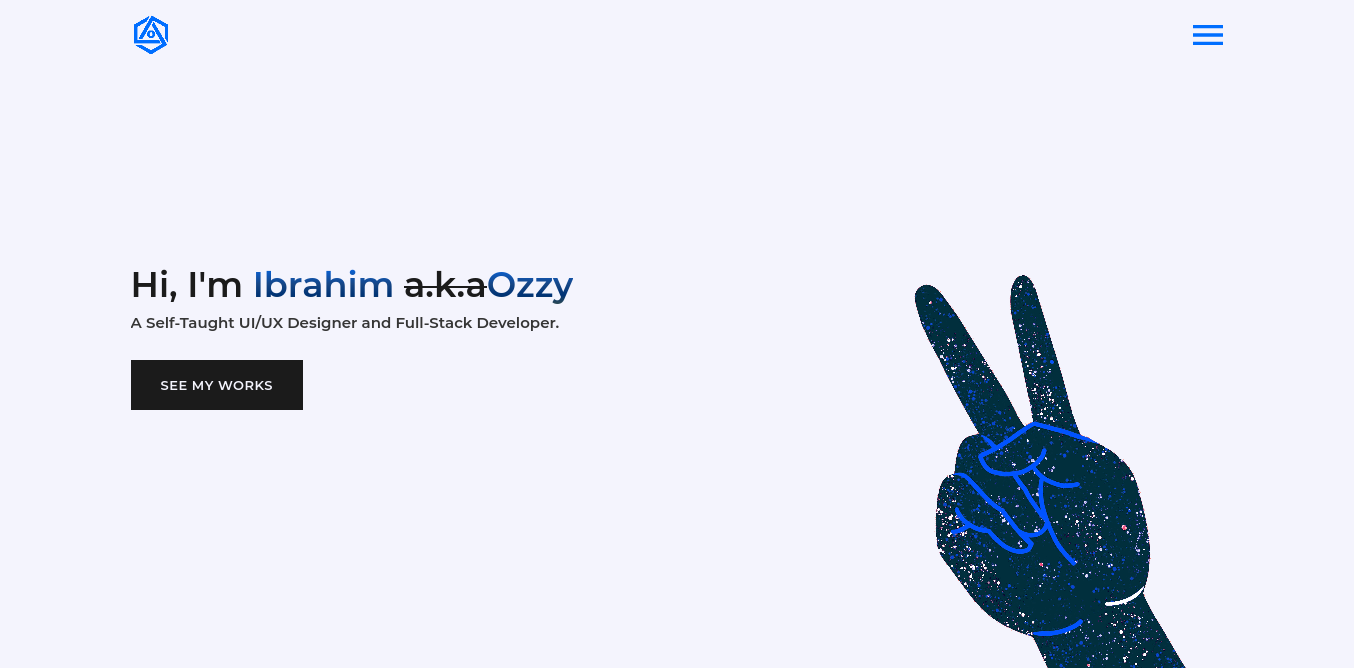
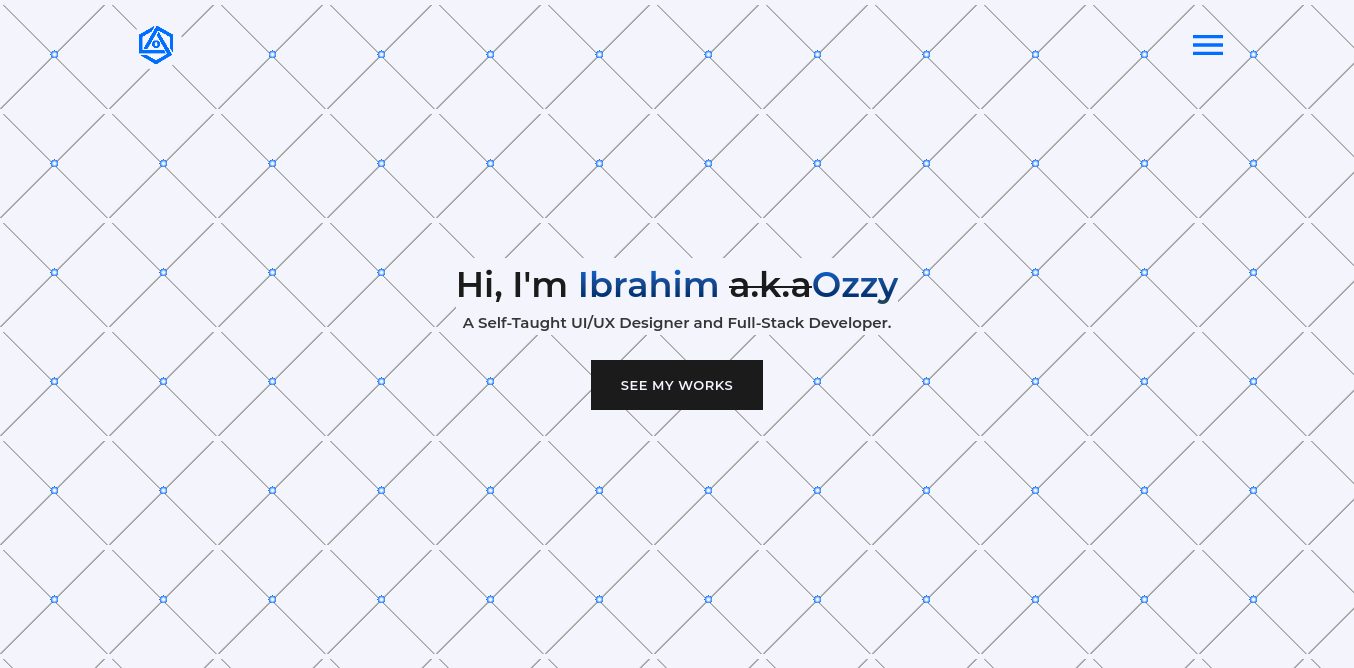
added an image with animation to hero.jsx

diff --git a/src/sections/portfolio/portfolio.jsx b/src/sections/portfolio/portfolio.jsx
@@ -1,5 +1,5 @@
 import React from 'react';
-import completed from '../../assets/completed.svg';
+import tick from '../../assets/tick.svg';
 import happy from '../../assets/happy.svg';
 import codeLine from '../../assets/codeLine.svg';
 import portfolio from '../../assets/portfolio.png';
@@ -25,7 +25,7 @@ const Portfolio = () => {
         <ProjectPreview
           image={portfolio}
           title="My Portfolio"
-          stack={['HTML5', 'CSS3', 'JAVASCRIPT', 'REACT']}
+          stack={['REACT']}
           demo="https://ozzy-dev.netlify.com"
           source=""
         />
@@ -89,7 +89,7 @@ const Portfolio = () => {
             </span>
           </div>
           <div className="info">
-            <img src={completed} alt="Finished-Projects" />
+            <img src={tick} alt="Finished-Projects" />
             <br />
             <span>
               145 <br /> Finished Projects

diff --git a/src/components/hero/hero.scss b/src/components/hero/hero.scss
@@ -19,15 +19,34 @@ $secondaryColor: #1b1b1b;
     position: relative;
     background: transparent;
 
-    .clipy {
-        width: 70vh;
-        height: 70vh;
-        position: absolute;
-        z-index: 0;
-        bottom: -35px;
-        right: -40px;
-        transform: rotate(-15deg);
-        transition: all 1s;
+    .hello {
+        width: 10vh;
+        height: 10vh;
+        background: $primaryColor;
+        margin-bottom: 20px;
+        transform: rotate(0deg);
+        animation: wave .5s infinite alternate ease;
+        animation-iteration-count: 10;
+    }
+
+    @keyframes wave {
+        0% {
+            transform: rotate(-30deg);
+        }
+
+        25% {
+            transform: rotate(0deg);
+        }
+
+        50% {
+            transform: rotate(30deg);
+
+        }
+
+        100% {
+            transform: rotate(0deg);
+
+        }
     }
 
     .posis {

diff --git a/src/App.jsx b/src/App.jsx
@@ -8,9 +8,21 @@ import Footer from './components/footer/footer';
 import Contact from './sections/contact/contact';
 
 class App extends React.Component {
+  state = {};
+  componentDidMount() {
+    window.addEventListener('scroll', () => {
+      if (window.scrollY > 0) {
+        document.querySelector('.navbar').classList.remove('fancy');
+        document.querySelector('.navbar').classList.add('white-bg');
+      } else {
+        document.querySelector('.navbar').classList.add('fancy');
+        document.querySelector('.navbar').classList.remove('white-bg');
+      }
+    });
+  }
   render() {
     return (
-      <>
+      <div className="app">
         <Header />
         <div id="about">
           <About />
@@ -25,7 +37,7 @@ class App extends React.Component {
           <Contact />
         </div>
         <Footer />
-      </>
+      </div>
     );
   }
 }

diff --git a/src/components/hero/hero.jsx b/src/components/hero/hero.jsx
@@ -1,17 +1,17 @@
 import React from 'react';
 import { Link } from 'react-scroll';
-// import duc from '../../assets/duc.png';
+import hello from '../../assets/hello.svg';
 import './hero.scss';
 import CustomButton from '../custom-button/custom-button';
 const Hero = () => {
   return (
     <div className="hero container">
-      {/* <img src={duc} alt="HeroImage" id="target" className="clipy" /> */}
       <div className="posis">
         <div className="content">
+          <img src={hello} alt="HeroImage" id="target" className="hello" />
           <h3 className="intro">
             Hi, I'm <span className="name">Ibrahim</span> <del>a.k.a</del>
-            <span className="name">Ozzy</span>
+            <span className="name"> Ozzy</span>
           </h3>
           <p>A Self-Taught UI/UX Designer and Full-Stack Developer. </p>
 

diff --git a/src/components/project-preview/project-preview.scss b/src/components/project-preview/project-preview.scss
@@ -2,7 +2,7 @@ $primaryColor: #f4f4fd;
 $secondaryColor: #1b1b1b;
 
 .project-preview {
-  margin: 30px 0px;
+  margin: 0px 0px 30px;
   position: relative;
   display: flex;
   align-items: center;
@@ -38,19 +38,24 @@ $secondaryColor: #1b1b1b;
     .project-title {
       display: inline-block;
       color: #006eff;
-      border-bottom: 2px solid #006eff;
       position: relative;
       margin-bottom: 20px;
     }
 
+    .project-title:before,
     .project-title:after {
       position: absolute;
       content: '';
-      width: 50%;
+      width: 120px;
       height: 2px;
       background: #006eff;
       left: 0;
-      bottom: -7px;
+      bottom: -1px;
+    }
+
+    .project-title:before {
+      bottom: -6px;
+      width: 80px;
     }
 
     span {

diff --git a/src/components/header/header.scss b/src/components/header/header.scss
@@ -27,13 +27,16 @@ $bgSize: 109px 109px,
   background-size: $bgSize;
 
 
+  .fancy {
+    background: $bgImage;
+    background-size: $bgSize;
+  }
+
   .navbar {
     position: fixed;
     top: 0;
     right: 0;
     left: 0;
-    background: $bgImage;
-    background-size: $bgSize;
     z-index: 6;
     padding: 20px 0 10px 0;
     transition: all 1s;
@@ -97,9 +100,10 @@ $bgSize: 109px 109px,
         margin: 10px;
         width: 20px;
         height: 20px;
+        background: lighten($color: $primaryColor, $amount: 10);
 
         &:hover {
-          background: lighten($color: $primaryColor, $amount: 10);
+          background: $primaryColor;
         }
 
         img {

diff --git a/src/sections/what we offer/service.scss b/src/sections/what we offer/service.scss
@@ -1,7 +1,7 @@
 .service {
     color: #f4f4fd;
     padding-top: 100px;
-    min-height: 500px;
+    min-height: 400px;
 
     .section-content {
         display: flex;
@@ -12,8 +12,7 @@
             text-align: center;
             padding: 20px 20px 30px 20px;
             color: #020202;
-            // background-color: #f4f4fd;
-            margin: 20px;
+            margin-bottom: 20px;
             width: 280px;
 
 

diff --git a/src/sections/portfolio/portfolio.scss b/src/sections/portfolio/portfolio.scss
@@ -43,20 +43,3 @@
         }
     }
 }
-
-// @media screen and (max-width: 600px) {
-//     .portfolio {
-
-//         .infos {
-//             .info-container {
-
-//                 .info {
-
-//                     img {
-//                         height: 30px;
-//                     }
-//                 }
-//             }
-//         }
-//     }
-// }

diff --git a/src/components/header/header.jsx b/src/components/header/header.jsx
@@ -21,7 +21,7 @@ const Header = () => {
   };
   return (
     <header className="header">
-      <nav className="navbar">
+      <nav className="navbar fancy">
         <div className="nav-links container">
           <div className="show">
             <div className="brand">

diff --git a/src/index.js b/src/index.js
@@ -4,6 +4,7 @@ import './index.css';
 import App from './App';
 import * as serviceWorker from './serviceWorker';
 
+
 ReactDOM.render( <App />, document.getElementById('root'));
 
 // If you want your app to work offline and load faster, you can change

diff --git a/src/sections/about/about.scss b/src/sections/about/about.scss
@@ -69,6 +69,7 @@ $secondaryColor: #1b1b1b;
                     min-height: 130px;
                     padding: 20px;
                     margin: 10px;
+                    width: 280px;
                 }
 
                 ul {

diff --git a/src/index.css b/src/index.css
@@ -10,3 +10,6 @@ code {
   font-family: source-code-pro, Menlo, Monaco, Consolas, 'Courier New',
     monospace;
 }
+.white-bg {
+  background: #f4f4fd;
+}
